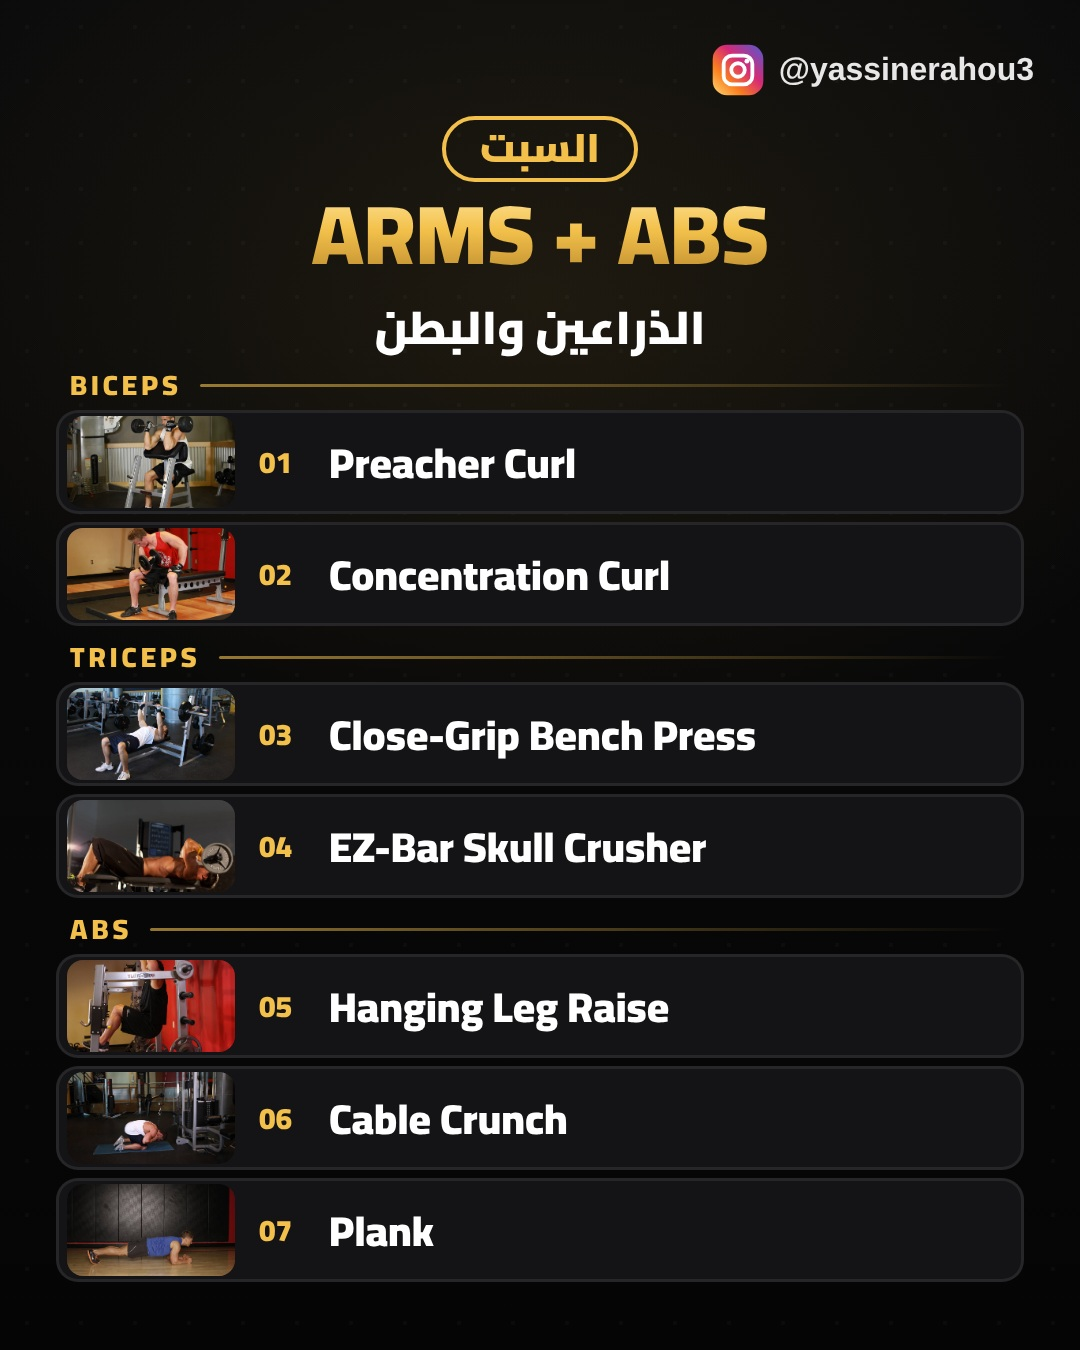
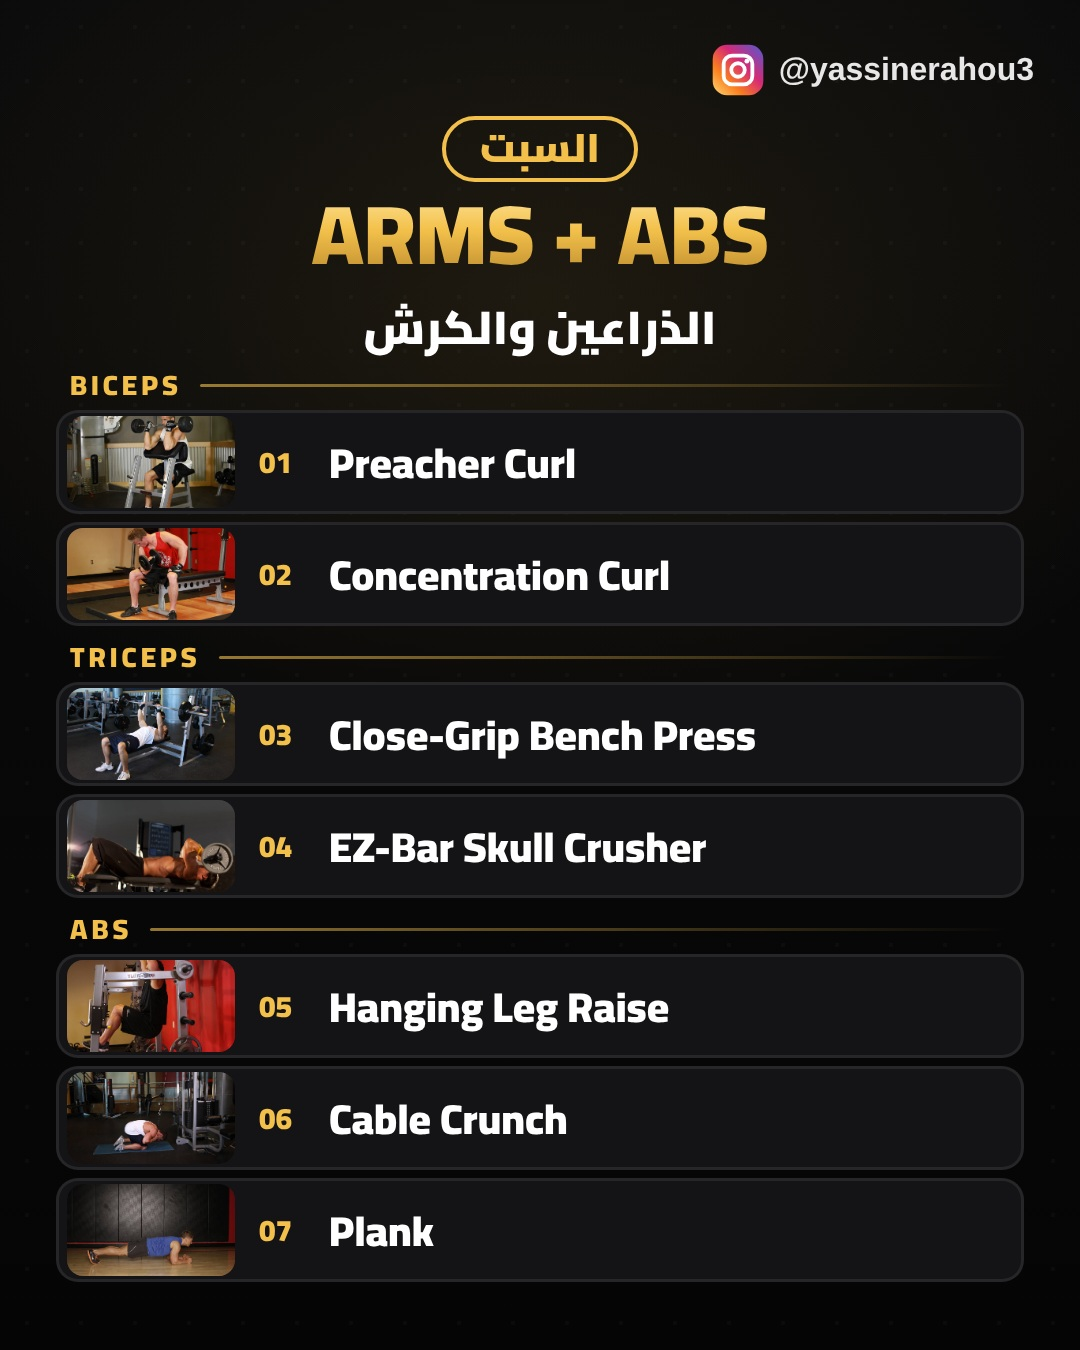
Add UPPER / LOWER Instagram carousel (6 slides)
carousel.html now serves both posts via ?set=bro|ul; BRO SPLIT slides
re-render unchanged.

Claude-Session: https://claude.ai/code/session_014GNevuJ6MBkHeS731WNJp8

Changed region(s): [[0.3361, 0.2178, 0.6722, 0.28]]

diff --git a/creatine-clip/thumbnails/carousel.html b/creatine-clip/thumbnails/carousel.html
@@ -40,6 +40,19 @@
   .wk.rest .w { color: rgba(255,255,255,.5); }
   .swipe { left: 0; width: 1080px; bottom: 26px; text-align: center; font-size: 30px; color: rgba(255,255,255,.5); font-weight: 700; }
 
+  .hook1.small { top: 120px; font-size: 62px; line-height: 1.3; }
+  .hook2.low { top: 385px; }
+  .hook2.low .b { font-size: 104px; }
+  .frame.big { top: 590px; gap: 18px; padding: 30px; }
+  .frame.big .wk { height: 140px; border-radius: 30px; }
+  .frame.big .wk .d { width: 260px; font-size: 62px; }
+  .frame.big .wk .w { font-size: 72px; color: var(--gold); }
+  .w.lat { direction: ltr; }
+  .otitle.high { top: 105px; }
+  .ocard.wrap { top: 290px; padding: 34px 46px 38px; }
+  .ocard.wrap p { white-space: normal; font-size: 42px; line-height: 1.5; }
+  .cta.low { top: 1050px; height: 230px; }
+  .ocard.wrap p + p { margin-top: 18px; padding-top: 18px; border-top: 2px solid rgba(255,255,255,.08); }
   /* session slides (same look as the video day pages) */
   .dchip { left: 0; width: 1080px; top: 116px; display: flex; justify-content: center; }
   .dchip span { height: 66px; padding: 0 34px 6px; border-radius: 33px; border: 4px solid var(--gold); color: var(--gold); font-size: 40px; line-height: 56px; }
@@ -87,51 +100,87 @@
 </div>
 
 <script src="../shared/kit.js"></script>
-<script src="../clips/06-bro-split/timeline.js"></script>
+<script>
+  // ?set=bro (BRO SPLIT, default) or ?set=ul (UPPER / LOWER): loads that video's program data
+  const SET = new URLSearchParams(location.search).get('set') || 'bro';
+  document.write(`<script src="../clips/${SET === 'ul' ? '07-upper-lower' : '06-bro-split'}/timeline.js"><\/script>`);
+</script>
 <script>
 const root = document.getElementById('content');
 const el = (cls, html, style = {}) => { const d = document.createElement('div'); d.className = 'abs ' + cls; d.innerHTML = html; Object.assign(d.style, style); root.appendChild(d); return d; };
+const ICON = {
+  like: '<svg width="50" height="50" viewBox="0 0 24 24"><path d="M12 21s-8-5.3-8-11.2A4.6 4.6 0 0 1 12 7a4.6 4.6 0 0 1 8 2.8C20 15.7 12 21 12 21z" fill="#e0245e"/></svg>',
+  follow: '<svg width="50" height="50" viewBox="0 0 24 24" fill="none" stroke="#0b0d10" stroke-width="2.4" stroke-linecap="round"><circle cx="10" cy="8" r="4"/><path d="M3 20c0-4 3-6 7-6s7 2 7 6M19 8v6M16 11h6"/></svg>',
+  comment: '<svg width="50" height="50" viewBox="0 0 24 24" fill="none" stroke="#0b0d10" stroke-width="2.4" stroke-linejoin="round"><path d="M21 12a8 8 0 0 1-11.6 7.1L4 20.5l1.4-4.6A8 8 0 1 1 21 12z"/></svg>',
+  save: '<svg width="50" height="50" viewBox="0 0 24 24" fill="none" stroke="#0b0d10" stroke-width="2.4" stroke-linejoin="round"><path d="M6 3h12v18l-6-4.5L6 21z"/></svg>',
+};
+const cta = (items) => el('cta', `<div class="t">إلى عجبك البوسط</div><div class="i">${items.map(([k, w]) => `<div>${ICON[k]}${w}</div>`).join('')}</div>`);
 
-const WEEK = [
-  ['الإثنين', 'الصدر والترايسبس'], ['الثلاثاء', 'الظهر والبايسبس'], ['الأربعاء', 'الرجلين'], ['الخميس', 'راحة'],
-  ['الجمعة', 'الكتاف'], ['السبت', 'الذراعين والبطن'], ['الأحد', 'راحة'],
-];
-// training-day pages from the BRO SPLIT video (same exercises + photos)
 const TRAIN = TL.pages.filter((p) => !p.rest);
-const DAYNAME = ['الإثنين', 'الثلاثاء', 'الأربعاء', 'الجمعة', 'السبت'];
-const TITLE = { 'SHOULDERS + TRAPS': ['SHOULDERS', 'الكتاف'], 'ARMS + ABS': ['ARMS + ABS', 'الذراعين والبطن'] };
+const CFG = {
+  bro: {
+    hook: () => {
+      el('hook1', 'كتقلب على بروغرام<br>تريني بيه؟');
+      el('hook2', '<span class="a">كاين</span><span class="b goldtxt">BRO SPLIT</span>');
+      return [['الإثنين', 'الصدر والترايسبس'], ['الثلاثاء', 'الظهر والبايسبس'], ['الأربعاء', 'الرجلين'], ['الخميس', 'راحة'],
+              ['الجمعة', 'الكتاف'], ['السبت', 'الذراعين والبطن'], ['الأحد', 'راحة']];
+    },
+    day: (p, i) => {
+      const T = { 'SHOULDERS + TRAPS': ['SHOULDERS', 'الكتاف'] }[p.en] || [p.en, p.ar];
+      return [['الإثنين', 'الثلاثاء', 'الأربعاء', 'الجمعة', 'السبت'][i], ...T];
+    },
+    opinion: () => {
+      el('ocard', `<p><span class="g">BRO SPLIT</span> ماشي صالح لكاع الناس.</p><p>إلا كنتي باقي بادي، كاين ما حسن منو:</p>`);
+      el('opts', `<div class="opt"><b class="goldtxt">PPL</b><small>PUSH · PULL · LEGS</small></div><div class="opt"><b class="goldtxt" style="font-size:58px; white-space:nowrap">UPPER / LOWER</b></div>`);
+      cta([['like', 'لايك'], ['follow', 'فلو'], ['comment', 'كومنت']]);
+    },
+  },
+  ul: {
+    hook: () => {
+      el('hook1 small', 'كتقلب على بروغرام فيه غير 4 أيام<br>وتخدم بيه العضلات<br>جوج مرات فالسيمانة؟');
+      el('hook2 low', '<span class="a">كاين</span><span class="b goldtxt">UPPER / LOWER</span>');
+      return TRAIN.map((p) => [p.chip, p.en, 'lat']);
+    },
+    day: (p) => [p.chip, p.en, p.ar],
+    opinion: () => {
+      el('ocard wrap', `<p><span class="g">UPPER / LOWER</span> من أحسن البرامج إلا كان عندك غير 4 أيام فالسيمانة.</p>
+        <p>كتخدم كل عضلة جوج مرات، وكتبقى عندك راحة كافية بين الحصص.</p>
+        <p>صالح للناس اللي بادين، وحتى اللي عندهم شوية ديال الخبرة.</p>
+        <p>المهم: <span class="g">كون منتظم</span>، وزيد شوية فالتقل ولا فالريبات كل سيمانة.</p>`);
+      cta([['like', 'لايك'], ['follow', 'فلو'], ['comment', 'كومنت'], ['save', 'سيف']]);
+      document.querySelector('.cta').classList.add('low');
+    },
+  },
+}[SET];
 const N = 2 + TRAIN.length;
-
 const slide = +(new URLSearchParams(location.search).get('slide') || 1);
 
 if (slide === 1) {
-  el('hook1', 'كتقلب على بروغرام<br>تريني بيه؟');
-  el('hook2', '<span class="a">كاين</span><span class="b goldtxt">BRO SPLIT</span>');
-  const f = el('frame', WEEK.map(([d, w]) => `<div class="wk${w === 'راحة' ? ' rest' : ''}"><div class="d goldtxt">${d}</div><div class="w">${w}</div></div>`).join(''));
+  const week = CFG.hook();
+  el('frame' + (SET === 'ul' ? ' big' : ''), week.map(([d, w, cls]) => `<div class="wk${w === 'راحة' ? ' rest' : ''}"><div class="d goldtxt">${d}</div><div class="w ${cls || ''}">${w}</div></div>`).join(''));
 } else if (slide <= 1 + TRAIN.length) {
   const p = TRAIN[slide - 2];
-  const [en, ar] = TITLE[p.en] || [p.en, p.ar];
-  el('dchip', `<span>${DAYNAME[slide - 2]}</span>`);
+  const [chip, en, ar] = CFG.day(p, slide - 2);
+  el('dchip', `<span>${chip}</span>`);
   el('ptitle goldtxt', en);
   el('psub', ar);
+  // fit every exercise row on the 1350px slide
+  const n = p.groups.reduce((a, g) => a + g[1].length, 0), L = p.groups.length;
+  const pitch = Math.min(112, Math.floor((938 - L * 48) / n));
   let y = 362, k = 0;
   p.groups.forEach(([label, list]) => {
     el('glabel', label, { top: y + 'px' }); y += 48;
     list.forEach((x) => {
       // end-position photo shows the movement best (Plank has one photo)
       const src = x.frames[x.frames.length - 1].replace('../../', '../');
-      el('xrow', `<div class="ph"><img src="${src}"></div><div class="no">${String(++k).padStart(2, '0')}</div><div class="nm">${x.name}</div>`, { top: y + 'px' });
-      y += 112;
+      el('xrow', `<div class="ph" style="height:${pitch - 20}px"><img src="${src}"></div><div class="no">${String(++k).padStart(2, '0')}</div><div class="nm">${x.name}</div>`,
+         { top: y + 'px', height: pitch - 8 + 'px' });
+      y += pitch;
     });
   });
 } else {
-  el('otitle goldtxt', 'رأيي فهاد البرنامج');
-  el('ocard', `<p><span class="g">BRO SPLIT</span> ماشي صالح لكاع الناس.</p><p>إلا كنتي باقي بادي، كاين ما حسن منو:</p>`);
-  el('opts', `<div class="opt"><b class="goldtxt">PPL</b><small>PUSH · PULL · LEGS</small></div><div class="opt"><b class="goldtxt" style="font-size:58px; white-space:nowrap">UPPER / LOWER</b></div>`);
-  const HEART = '<svg width="50" height="50" viewBox="0 0 24 24"><path d="M12 21s-8-5.3-8-11.2A4.6 4.6 0 0 1 12 7a4.6 4.6 0 0 1 8 2.8C20 15.7 12 21 12 21z" fill="#e0245e"/></svg>';
-  const FOLLOW = '<svg width="50" height="50" viewBox="0 0 24 24" fill="none" stroke="#0b0d10" stroke-width="2.4" stroke-linecap="round"><circle cx="10" cy="8" r="4"/><path d="M3 20c0-4 3-6 7-6s7 2 7 6M19 8v6M16 11h6"/></svg>';
-  const COMMENT = '<svg width="50" height="50" viewBox="0 0 24 24" fill="none" stroke="#0b0d10" stroke-width="2.4" stroke-linejoin="round"><path d="M21 12a8 8 0 0 1-11.6 7.1L4 20.5l1.4-4.6A8 8 0 1 1 21 12z"/></svg>';
-  el('cta', `<div class="t">إلى عجبك البوسط</div><div class="i"><div>${HEART}لايك</div><div>${FOLLOW}فلو</div><div>${COMMENT}كومنت</div></div>`);
+  el('otitle goldtxt' + (SET === 'ul' ? ' high' : ''), 'رأيي فهاد البرنامج');
+  CFG.opinion();
 }
 window.N = N;
 window.ready = Promise.all([document.fonts.ready, ...[...document.images].map((i) => i.decode())]);

diff --git a/creatine-clip/thumbnails/carousel.js b/creatine-clip/thumbnails/carousel.js
@@ -1,10 +1,11 @@
-// Renders every slide of carousel.html to Exports/bro-split-carousel/NN.jpg (1080x1350, Instagram 4:5).
-// Usage: node creatine-clip/thumbnails/carousel.js
+// Renders every slide of carousel.html to Exports/<set dir>/NN.jpg (1080x1350, Instagram 4:5).
+// Usage: node creatine-clip/thumbnails/carousel.js [bro|ul]
 const fs = require('fs');
 const path = require('path');
 const { chromium } = require('playwright');
 
-const OUT = path.resolve(__dirname, '..', '..', 'Exports', 'bro-split-carousel');
+const SET = process.argv[2] || 'bro';
+const OUT = path.resolve(__dirname, '..', '..', 'Exports', { bro: 'bro-split-carousel', ul: 'upper-lower-carousel' }[SET]);
 
 (async () => {
   fs.mkdirSync(OUT, { recursive: true });
@@ -12,7 +13,7 @@ const OUT = path.resolve(__dirname, '..', '..', 'Exports', 'bro-split-carousel')
   const page = await browser.newPage({ viewport: { width: 1080, height: 1350 }, deviceScaleFactor: 1 });
   let n = 1;
   for (let s = 1; s <= n; s++) {
-    await page.goto(`file://${path.join(__dirname, 'carousel.html')}?slide=${s}`);
+    await page.goto(`file://${path.join(__dirname, 'carousel.html')}?set=${SET}&slide=${s}`);
     await page.evaluate(() => window.ready);
     n = await page.evaluate(() => window.N);
     const file = path.join(OUT, `${String(s).padStart(2, '0')}.jpg`);
